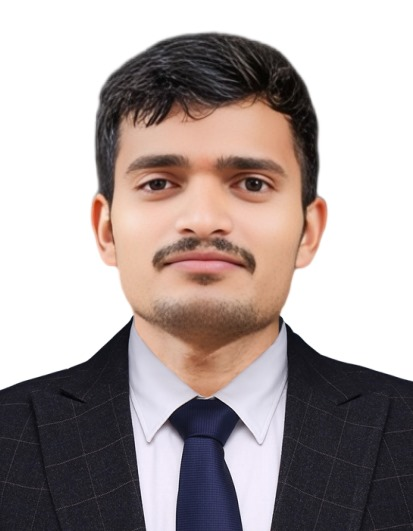
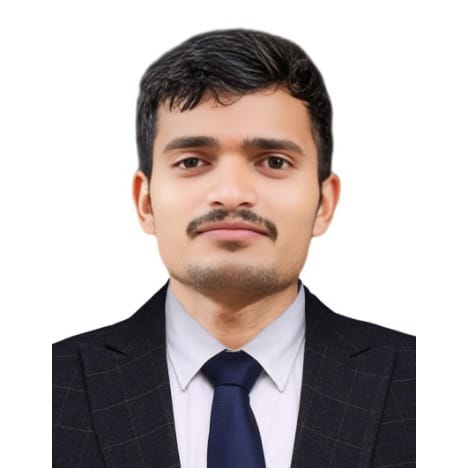
image set

Changed region(s): [[0.523, 0.0598, 1.0, 1.0], [0.0, 0.0598, 0.4939, 1.0]]

diff --git a/index.html b/index.html
@@ -41,7 +41,7 @@
              </div>
              <div class="home-img">
               <div class="img-box">
-              <img src="kiranimg.jpg"alt=""> 
+             <!--  <img src="kiranimg.jpg"alt=""> -->
               </div>
             </div>
         </section>

diff --git a/style.css b/style.css
@@ -136,6 +136,9 @@ align-items: center;
     border-radius: 50%;
     box-shadow: 0 0 20px #fff;
     overflow: hidden;
+    background-image: url(kiranimg.jpg);
+    background-size: cover;
+    background-position: center;
 }
  
 .home-img .img-box img {
